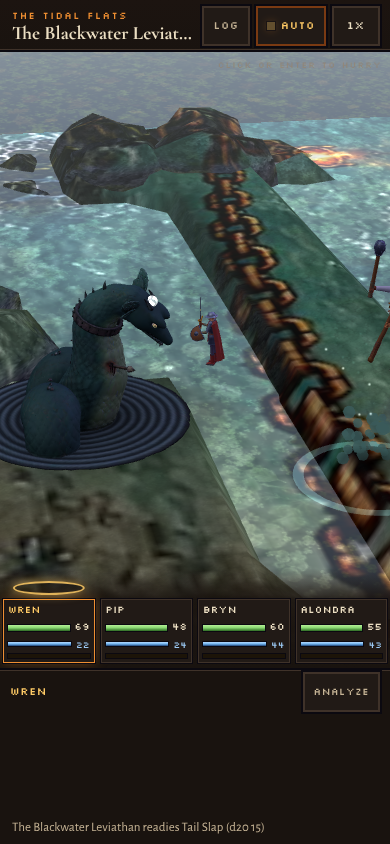
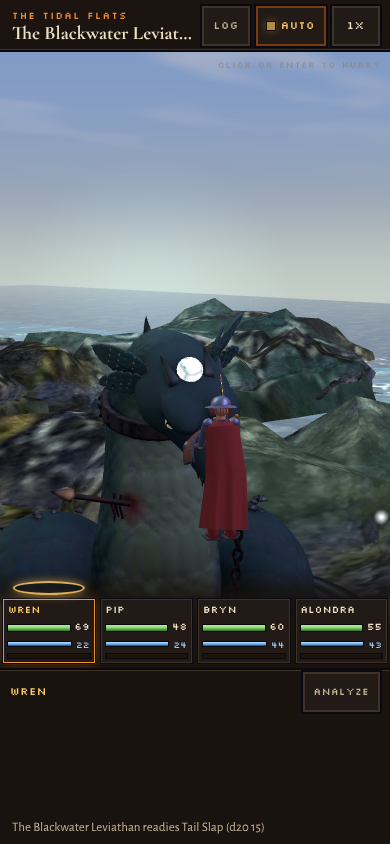
Fight: a swallow's camera goes over the hero's shoulder at the mouth (the shoulder no other hero blocks), so on a tall phone screen the gulp reads; stills redone
Claude-Session: https://claude.ai/code/session_01DgbUKYR9qmKyBdACUWGViw

diff --git a/world3d/battle/arena.js b/world3d/battle/arena.js
@@ -136,6 +136,22 @@ export const arena = {
     // side by side, neither hiding the other); a move on itself from three-quarters; a wide one from a little round
     const back = tg ? F.home.clone().sub(tg.pos).setY(0).normalize().negate() : V3(-this.dir.x, 0, -this.dir.z);
     const turns = (tg ? [70, -70, 55, -55, 85, -85] : kind === 'wide' ? [30, -30, 15, -15, 45, -45] : [40, -40, 25, -25, 60, -60]).map((a) => a * Math.PI / 180);
+    // a swallow (any swallower; hub, November 23): over the hero's shoulder at the mouth, so on a tall phone screen the hero
+    // is in the foreground and the mouth looms over them; the shoulder whose line to the mouth no other hero blocks
+    if (tg && F.act?.kmove === 'swallow') {
+      const m = F.fig.beast?.bones?.mouth || F.fig.beast?.parts?.mouth, mp = m ? m.getWorldPosition(V3()) : F.pos.clone().setY(F.pos.y + F.size.h * 0.6);
+      const away = tg.pos.clone().sub(mp).setY(0).normalize(), perp = V3(away.z, 0, -away.x);
+      let bestS = -1e9, bp = null;
+      for (const back of [2.6, 3.4]) for (const sd of [1, -1, 1.6, -1.6]) {
+        const p = tg.pos.clone().addScaledVector(away, back).addScaledVector(perp, sd * 1.2); p.y = tg.pos.y + 2.3;
+        if (!open(p)) continue;
+        let sc = clear(p, mp) ? 10 : 0;
+        for (const o of this.heroes.values()) if (o !== tg && !o.held) { const a = o.pos.clone().setY(o.pos.y + 1.2), d = mp.clone().sub(p), u = Math.max(0, Math.min(1, a.clone().sub(p).dot(d) / d.lengthSq())); if (p.clone().addScaledVector(d, u).distanceTo(a) < 0.7) sc -= 4; }
+        sc -= Math.abs(sd) * 0.3 + (back - 2.6) * 0.5;
+        if (sc > bestS) { bestS = sc; bp = p; }
+      }
+      if (bp) { const lk = mp.clone().lerp(tg.pos.clone().setY(tg.pos.y + 1), 0.35); this.close = { t: 0, dur, pos: bp, q: new THREE.Quaternion().setFromRotationMatrix(new THREE.Matrix4().lookAt(bp, lk, UP)), fov: 42 }; this.stage?.host.classList.add('f3-close'); return; }
+    }
     const span = kind === 'wide' ? Math.max(6, F.pos.distanceTo(hc) * 1.2 + 3) : Math.max(4.5, F.size.h * 3.4 + F.size.d * 1.3) * (tg ? 1.3 : 1);
     let best = -1e9;
     for (const k of [1, 1.25]) for (const lift of [0, 1.5, 3]) for (const [ti, th] of turns.entries()) {
